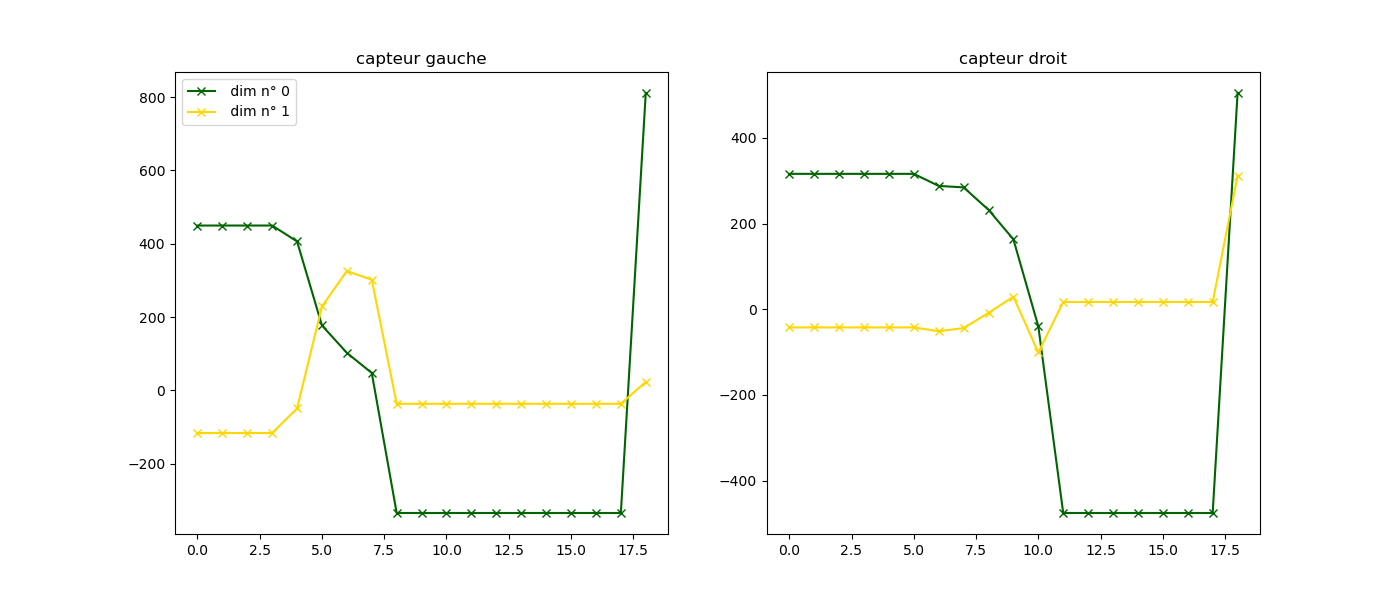
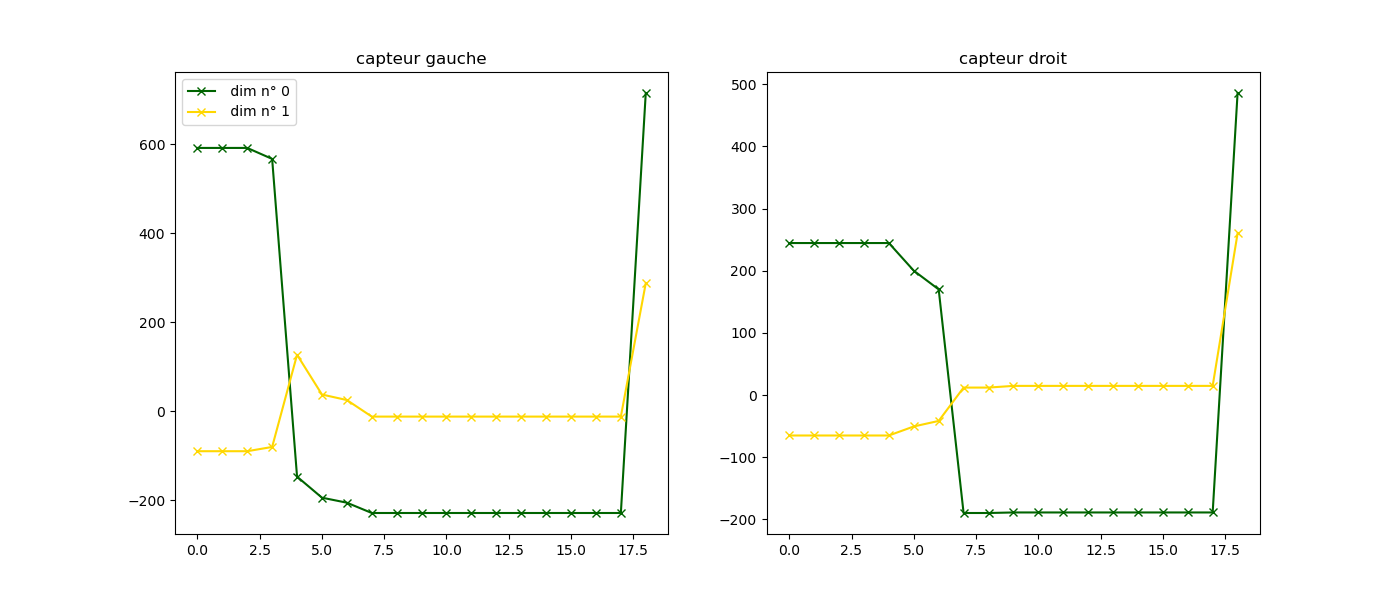
..

diff --git a/KPCA/playload.py b/KPCA/playload.py
@@ -21,6 +21,7 @@ m.dimensionReductionExample(10,[0,1,2],save=True,name="figure2.png")
 m.dimensionReductionExample(10,[0,1,2,3,4,5],save=True,name="figure3.png")
 #on reduit la dimensionnalité de notre dataset 
 """
+#on reduit la dimensionnalité de notre dataset 
 mov = m.dimensionReduction(numberOfDimension = 1)
 #on affiche la list des mouvements sur le même graphe pour savoir si on peut les différencier après la reduction
 showResult(mov, prefix ="red1")
@@ -28,4 +29,8 @@ showResult(mov, prefix ="red1")
 mov = m.dimensionReduction(numberOfDimension = 2)
 #on affiche la list des mouvements sur le même graphe pour savoir si on peut les différencier après la reduction
 showResult(mov, prefix ="red2")
+#on reduit la dimensionnalité de notre dataset 
+mov = m.dimensionReduction(numberOfDimension = 3)
+#on affiche la list des mouvements sur le même graphe pour savoir si on peut les différencier après la reduction
+showResult(mov, prefix ="red3")
 

diff --git a/KPCA/Readme.md b/KPCA/Readme.md
@@ -38,19 +38,36 @@ Plusieurs méthodes ont été implémentés dans la classe **movement** :
 * La méthode **dimensionReduction** qui permet de "fusionner" deux capteurs afin de réduire le nombre de dimensions
 ## 6. Resultats
 * Nous allons ici prendre le mouvement n°10 et le comparer aux autres pour savoir si cette reduction de dimensionalité ne rend pas impossible l'identification d'un mouvement par rapport à un autre. Nous obtenons la figure ci-dessous via les lignes `mov = m.dimensionReduction(numberOfDimension = 1)` et `showResult(mov)`.
+  
 ![image n°5](images/figure4.png)
-> mouvement n°10 avec 1 dimension
+> mouvement n°1 avec 1 dimension
+
 ![image n°6](images/figure5.png)
-> mouvement n°12 avec 1 dimension **(même mouvement mais répétition différente)**
+> mouvement n°4 avec 1 dimension **(même mouvement mais répétition différente)**
+
 ![image n°7](images/figure6.png)
-> mouvement n°21 avec 1 dimension **(mouvement différents)**
+> mouvement n°30 avec 1 dimension **(mouvement différents)**
+
 * Nous allons effectuer la même démarche mais avec cette fois-ci **2 dimension** via les lignes `mov = m.dimensionReduction(numberOfDimension = 2)` et `showResult(mov)` 
 ![image n°8](images/figure7.png)
-> mouvement n°10 avec 2 dimensions
+> mouvement n°1 avec 2 dimensions
+
 ![image n°9](images/figure8.png)
-> mouvement n°12 avec 2 dimensions **(même mouvement mais répétition différente)**
+> mouvement n°4 avec 2 dimensions **(même mouvement mais répétition différente)**
+
 ![image n°10](images/figure9.png)
-> mouvement n°21 avec 2 dimensions **(mouvement différents)**
+> mouvement n°30 avec 2 dimensions **(mouvement différents)**
+
+* Nous allons effectuer la même démarche mais avec cette fois-ci **2 dimension** via les lignes `mov = m.dimensionReduction(numberOfDimension = 3)` et `showResult(mov)` 
+![image n°11](images/figure10.png)
+> mouvement n°1 avec 3 dimensions
+
+![image n°12](images/figure11.png)
+> mouvement n°4 avec 3 dimensions **(même mouvement mais répétition différente)**
+
+![image n°13](images/figure12.png)
+> mouvement n°30 avec 3 dimensions **(mouvement différents)**
+
 #### Notre conclusion : 
-* * la réduction de dimensionalité n'entraine pas une perte d'information pour notre tache d'identification des mouvements. 
+* * la réduction de dimensionalité n'entraine pas une perte d'information pour notre tache d'identification des mouvements si le nombre de dimensions par capteur est supérieur ou égal à 2. 
 * * Cependant ce processus peut-être energivore en terme de ressource et de temps de calcul. 
